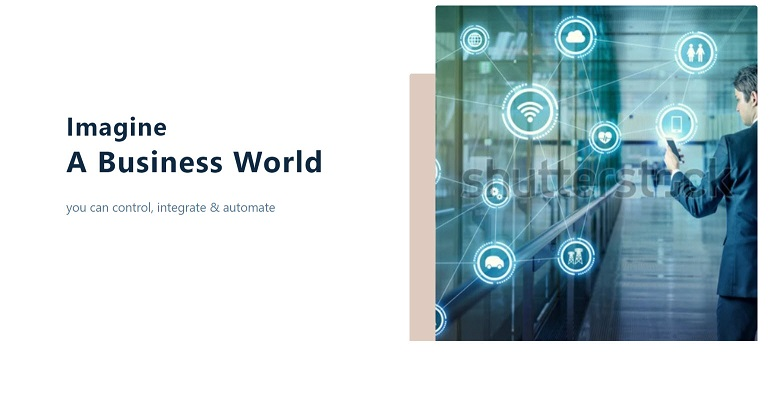
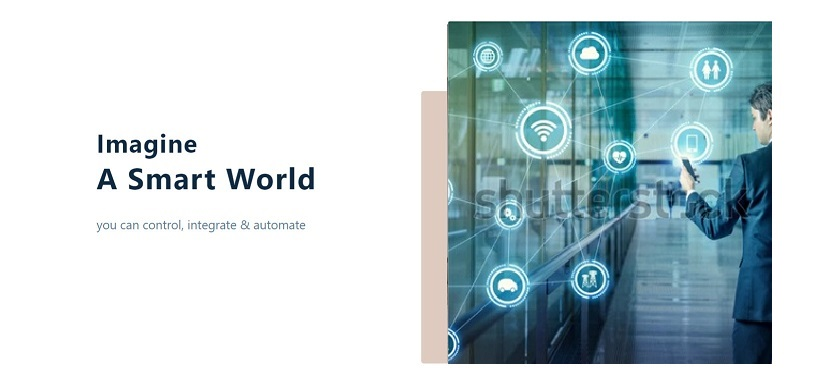
Oct 14

diff --git a/src/components/Slideshows.js b/src/components/Slideshows.js
@@ -2,7 +2,7 @@ import React from "react";
 import { Slide } from "react-slideshow-image";
 import "react-slideshow-image/dist/styles.css";
 import "./slideshows.css";
-import { Box, Image } from "@chakra-ui/react";
+import { AspectRatio, Box, Image, Wrap, WrapItem } from "@chakra-ui/react";
 
 const slideImages = ["images/business-world.jpg", "images/home-world.jpg"];
 
@@ -16,28 +16,36 @@ const properties = {
 const Slideshow = () => {
   return (
     <div>
+      {/* <Box display="block" position="relative">
+        <AspectRatio w="100%" maxH="550px" ratio={4 / 3}>
+          <Image w="800" src={slideImages[1]} alt="image 1" objectFit="cover" />
+        </AspectRatio>
+      </Box> */}
       <Slide easing="ease" {...properties}>
         <div className="each-slide">
-          <div
-            style={{
-              height: "40vw",
-              backgroundImage: `url(${slideImages[0]})`,
-            }}
-          ></div>
+          <Box display="block" position="relative" h="550">
+            <AspectRatio display="block" w="100%" maxH="550px" ratio={8 / 4}>
+              <Image
+                w="800"
+                src={slideImages[0]}
+                alt="image 1"
+                objectFit="cover"
+              />
+            </AspectRatio>
+          </Box>
         </div>
-        <div className="each-slide">
-          <div
-            style={{
-              height: "40vw",
-              backgroundImage: `url(${slideImages[1]})`,
-            }}
-          ></div>
-        </div>
-        {/* <div className="each-slide">
-          <div style={{ backgroundImage: `url(${slideImages[2]})` }}>
-            <span>Slide 3</span>
-          </div>
-        </div> */}
+        {/* <div className="each-slide"> */}
+        <Box display="block" position="relative" h="550">
+          <AspectRatio display="block" w="100%" maxH="550px" ratio={8 / 4}>
+            <Image
+              w="800"
+              src={slideImages[1]}
+              alt="image 1"
+              objectFit="cover"
+            />
+          </AspectRatio>
+        </Box>
+        {/* </div> */}
       </Slide>
     </div>
   );

diff --git a/src/components/Product copy.js b/src/components/Product copy.js
@@ -3,44 +3,18 @@ import styled from "styled-components";
 import { formatPrice } from "../utils/helpers";
 import { FaSearch } from "react-icons/fa";
 import { Link } from "react-router-dom";
-import { AspectRatio, Box, Image, Wrap, WrapItem } from "@chakra-ui/react";
+import { Image } from "@chakra-ui/react";
 
 const Product = ({ image, name, price, id }) => {
   return (
     <Wrapper>
-      {/* <div className="container">
+      <div className="container">
         <Image boxSize="200px" objectFit="cover" src={image} alt={name} />
-        <img src={image} alt={name} />
-        <Link to={`/products/${id}`} className="link">
+        {/* <img src={image} alt={name} /> */}
+        {/* <Link to={`/products/${id}`} className="link">
           <FaSearch />
-        </Link>
-      </div> */}
-      <Box boxSize="300" h="300">
-        {/* <AspectRatio maxW="280px" ratio={1}> */}
-        <AspectRatio display="block" w="300px" h="300px" ratio={1}>
-          <Wrap w="300px" h="300px" px="1rem" spacing={4} justify="center">
-            <WrapItem
-              w="95%"
-              h="95%"
-              boxShadow="base"
-              rounded="20px"
-              overflow="hidden"
-              bg="white"
-              lineHeight="0"
-              _hover={{ boxShadow: "dark-lg" }}
-            >
-              <Image
-                src={image}
-                fallbackSrc="https://via.placeholder.com/150"
-                alt={name}
-                width="100%"
-                display="block"
-                objectFit="cover"
-              />
-            </WrapItem>
-          </Wrap>
-        </AspectRatio>
-      </Box>
+        </Link> */}
+      </div>
       <footer>
         <h5>{name}</h5>
         <p>{formatPrice(price)}</p>

diff --git a/src/index.js b/src/index.js
@@ -7,26 +7,29 @@ import { FilterProvider } from "./context/filter_context";
 import { CartProvider } from "./context/cart_context";
 import { UserProvider } from "./context/user_context";
 import { Auth0Provider } from "@auth0/auth0-react";
+import { ChakraProvider } from "@chakra-ui/react";
 
 //dev-lby8zvb2.us.auth0.com
 //0fGOG1NW8OZ2GRE5z8lKd7255Ul3IYeM
 
 ReactDOM.render(
-  <Auth0Provider
-    domain="dev-lby8zvb2.us.auth0.com"
-    clientId="0fGOG1NW8OZ2GRE5z8lKd7255Ul3IYeM"
-    redirectUri={window.location.origin}
-    cacheLocation="localstorage"
-  >
-    <UserProvider>
-      <ProductsProvider>
-        <FilterProvider>
-          <CartProvider>
-            <App />
-          </CartProvider>
-        </FilterProvider>
-      </ProductsProvider>
-    </UserProvider>
-  </Auth0Provider>,
+  <ChakraProvider>
+    <Auth0Provider
+      domain="dev-lby8zvb2.us.auth0.com"
+      clientId="0fGOG1NW8OZ2GRE5z8lKd7255Ul3IYeM"
+      redirectUri={window.location.origin}
+      cacheLocation="localstorage"
+    >
+      <UserProvider>
+        <ProductsProvider>
+          <FilterProvider>
+            <CartProvider>
+              <App />
+            </CartProvider>
+          </FilterProvider>
+        </ProductsProvider>
+      </UserProvider>
+    </Auth0Provider>
+  </ChakraProvider>,
   document.getElementById("root")
 );

diff --git a/src/components/Slideshows copy.js b/src/components/Slideshows copy.js
@@ -1,0 +1,46 @@
+import React from "react";
+import { Slide } from "react-slideshow-image";
+import "react-slideshow-image/dist/styles.css";
+import "./slideshows.css";
+import { AspectRatio, Box, Image } from "@chakra-ui/react";
+
+const slideImages = ["images/business-world.jpg", "images/home-world.jpg"];
+
+const properties = {
+  duration: 2000,
+  slidesToShow: 1,
+  slidesToScroll: 1,
+  autoplay: true,
+  indicators: true,
+};
+const Slideshow = () => {
+  return (
+    <div>
+      <Slide easing="ease" {...properties}>
+        <div className="each-slide">
+          <div
+            style={{
+              height: "40vw",
+              backgroundImage: `url(${slideImages[0]})`,
+            }}
+          ></div>
+        </div>
+        <div className="each-slide">
+          <div
+            style={{
+              height: "40vw",
+              backgroundImage: `url(${slideImages[1]})`,
+            }}
+          ></div>
+        </div>
+        {/* <div className="each-slide">
+          <div style={{ backgroundImage: `url(${slideImages[2]})` }}>
+            <span>Slide 3</span>
+          </div>
+        </div> */}
+      </Slide>
+    </div>
+  );
+};
+
+export default Slideshow;

diff --git a/src/components/GridView.js b/src/components/GridView.js
@@ -16,7 +16,7 @@ const GridView = ({ products }) => {
 
 const Wrapper = styled.section`
   img {
-    height: 175px;
+    height: 200px;
   }
 
   .products-container {
